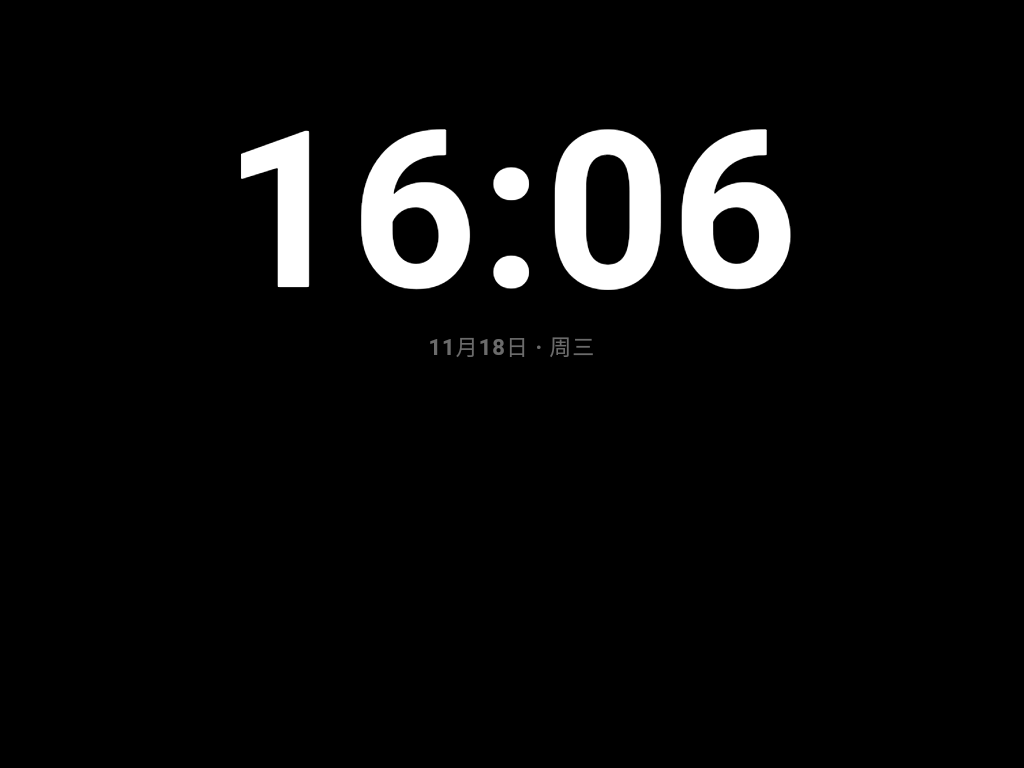
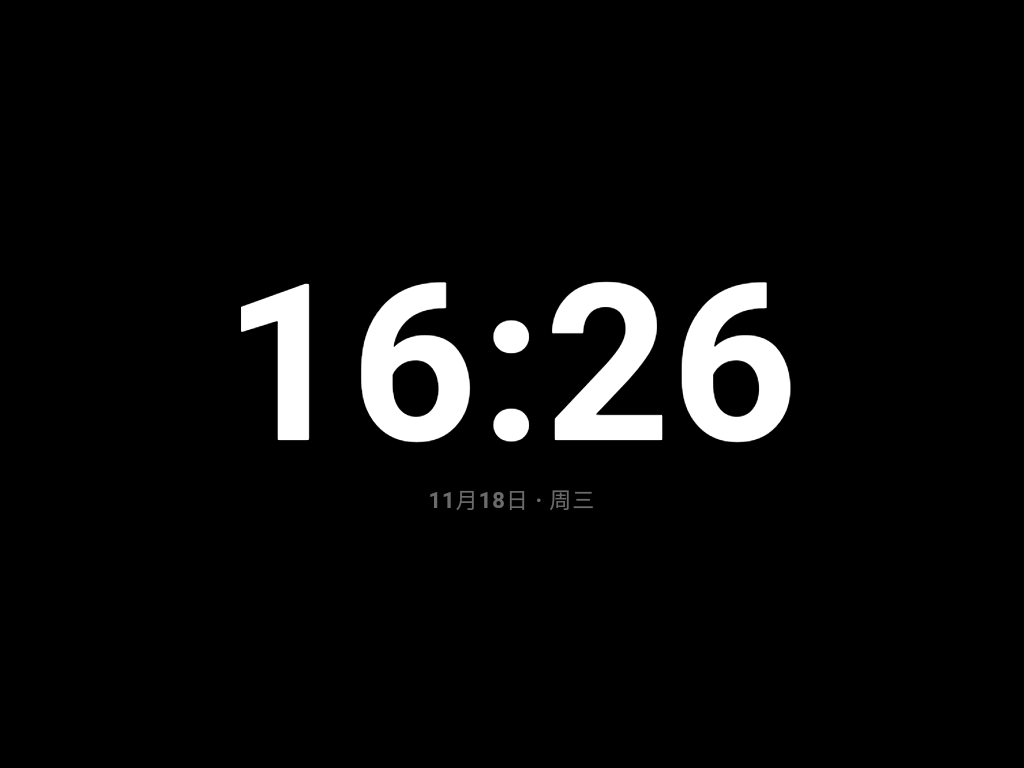
fix(panel): 待机页没放歌时时间垂直居中，放歌时才把时间抬到上方让出底部；版本 0.7.51/88
- .dim 改成 justify-content:center（整屏只有时间时就在正中）；新增
  .dim.with-music{justify-content:flex-start;padding-top:9vh}，底部出现
  「正在播放」时时间才上移
- dimscreen.js：新增 setNowPlaying(on)，同时切 #dimNow 的 on 与 #dim 的
  with-music；paintMusic/hide 都走它（暂停后时间回到正中）
- 测试：e2e-dim 把「时钟不跳位置」改成「没放歌时垂直居中 + 放歌后上移 >120px
  + with-music 开关」；test-ui 加 4 项（26 项待机页断言，合计 505）
- 截图与 README 同步更新（docs/screens/panel-dim-*.png 换成 emulator 1024x768 实图）
- 版本 0.7.51 / versionCode 88

Changed region(s): [[0.3438, 0.1562, 0.7812, 0.5938], [0.2188, 0.1562, 0.3125, 0.5938], [0.4375, 0.625, 0.5625, 0.6562]]

diff --git a/tools/e2e-dim.js b/tools/e2e-dim.js
@@ -106,6 +106,13 @@ const httpGet = url => new Promise((resolve, reject) => {
   check(await evalJs("getComputedStyle(document.getElementById('dim')).backgroundColor === 'rgb(0, 0, 0)'"), '背景纯黑');
   check(await evalJs("getComputedStyle(document.getElementById('dimNow')).display === 'none'"), '没放歌时「正在播放」不显示');
   const clockTop = await evalJs("document.getElementById('dimTime').getBoundingClientRect().top");
+  /* 没放歌时时间就是整屏唯一的东西，垂直居中 */
+  const centered = await evalJs(`(function(){
+    var r = document.getElementById('dimTime').getBoundingClientRect();
+    return Math.abs((r.top + r.bottom) / 2 - window.innerHeight / 2);
+  })()`);
+  check(centered <= 40, '没放歌时时间垂直居中', '偏 ' + Math.round(centered) + 'px');
+  check(await evalJs("document.getElementById('dim').className.indexOf('with-music') < 0"), '没放歌时不加 with-music');
   await shot('dim-1-clock.png');
 
   /* ---------- ② 放歌时补一条正在播放 ---------- */
@@ -132,7 +139,8 @@ const httpGet = url => new Promise((resolve, reject) => {
   const coverShown = await waitFor("document.getElementById('dimCover').className.indexOf('has') >= 0", 4000);
   check(coverShown, '封面图加载后盖住占位音符');
   const clockTop2 = await evalJs("document.getElementById('dimTime').getBoundingClientRect().top");
-  check(Math.abs(clockTop2 - clockTop) < 1, '「正在播放」出现时时钟不跳位置', 'before ' + clockTop + ' after ' + clockTop2);
+  check(await evalJs("document.getElementById('dim').className.indexOf('with-music') >= 0"), '放歌时 #dim 带上 with-music');
+  check(clockTop2 < clockTop - 120, '放歌后时间被抬到上方（让出底部）', 'before ' + Math.round(clockTop) + ' after ' + Math.round(clockTop2));
   await shot('dim-2-music.png');
 
   /* ---------- ③ 暂停后收起 ---------- */

diff --git a/panel/js/dimscreen.js b/panel/js/dimscreen.js
@@ -93,15 +93,32 @@
     try { return mu.playing ? mu.playing() : null; } catch (e) { return null; }
   }
 
+  /* 有没有「正在播放」这一条：同时切换 #dimNow 的 on 和 #dim 的 with-music。
+   * 待机页默认把时间放在整屏正中（屏上只有时间），一旦底部来了「正在播放」，
+   * with-music 把时间抬到上方让出位置——抬多高由 CSS 决定，JS 只管这个状态。 */
+  function setNowPlaying(on) {
+    var box = $('dimNow');
+    if (box) {
+      var cls = on ? 'dim-now on' : 'dim-now';
+      if (box.className !== cls) box.className = cls;
+    }
+    var dim = $('dim');
+    if (dim) {
+      var has = (' ' + dim.className + ' ').indexOf(' with-music ') >= 0;
+      if (on && !has) dim.className = dim.className ? dim.className + ' with-music' : 'with-music';
+      if (!on && has) dim.className = (' ' + dim.className + ' ').replace(/ with-music /g, ' ').replace(/^\s+|\s+$/g, '');
+    }
+  }
+
   function paintMusic() {
     var box = $('dimNow');
     if (!box) return;
     var t = currentTrack();
     if (!t || (!t.title && !t.artist)) {
-      if (box.className !== 'dim-now') box.className = 'dim-now';
+      setNowPlaying(false);
       return;
     }
-    if (box.className !== 'dim-now on') box.className = 'dim-now on';
+    setNowPlaying(true);
     var ti = $('dimTitle');
     var ar = $('dimArtist');
     var title = String(t.title || '未知曲目');
@@ -129,8 +146,7 @@
 
   function hide() {
     if (timer !== null) { clearInterval(timer); timer = null; }
-    var box = $('dimNow');
-    if (box) box.className = 'dim-now';
+    setNowPlaying(false);
   }
 
   window.DimScreen = {

diff --git a/panel/css/app.css b/panel/css/app.css
@@ -508,12 +508,13 @@ body::before { content: none; }
 /* ---------- 夜间/空闲熄屏遮罩（纯黑待机页：大时钟 + 日期；放歌时补一条正在播放） ---------- */
 .dim {
   position: fixed; left: 0; top: 0; right: 0; bottom: 0; z-index: 90;
-  display: none; flex-direction: column; align-items: center; justify-content: flex-start;
-  padding-top: 13vh;
+  display: none; flex-direction: column; align-items: center; justify-content: center;
+  padding-top: 0;
   background: #000; transition: opacity .6s; opacity: 0;
 }
 .dim.show { display: flex; opacity: 1; }
-/* 时钟块固定在同样的高度：下方「正在播放」出现/消失时时间不会上下跳 */
+/* 没放歌时时间就是整屏唯一的元素，垂直居中；一旦底部有「正在播放」，把时间抬到上方让出位置 */
+.dim.with-music { justify-content: flex-start; padding-top: 9vh; }
 .dim-clock { text-align: center; }
 .dim-time {
   font-size: 220px; font-weight: 700; letter-spacing: 2px; color: #fff;
